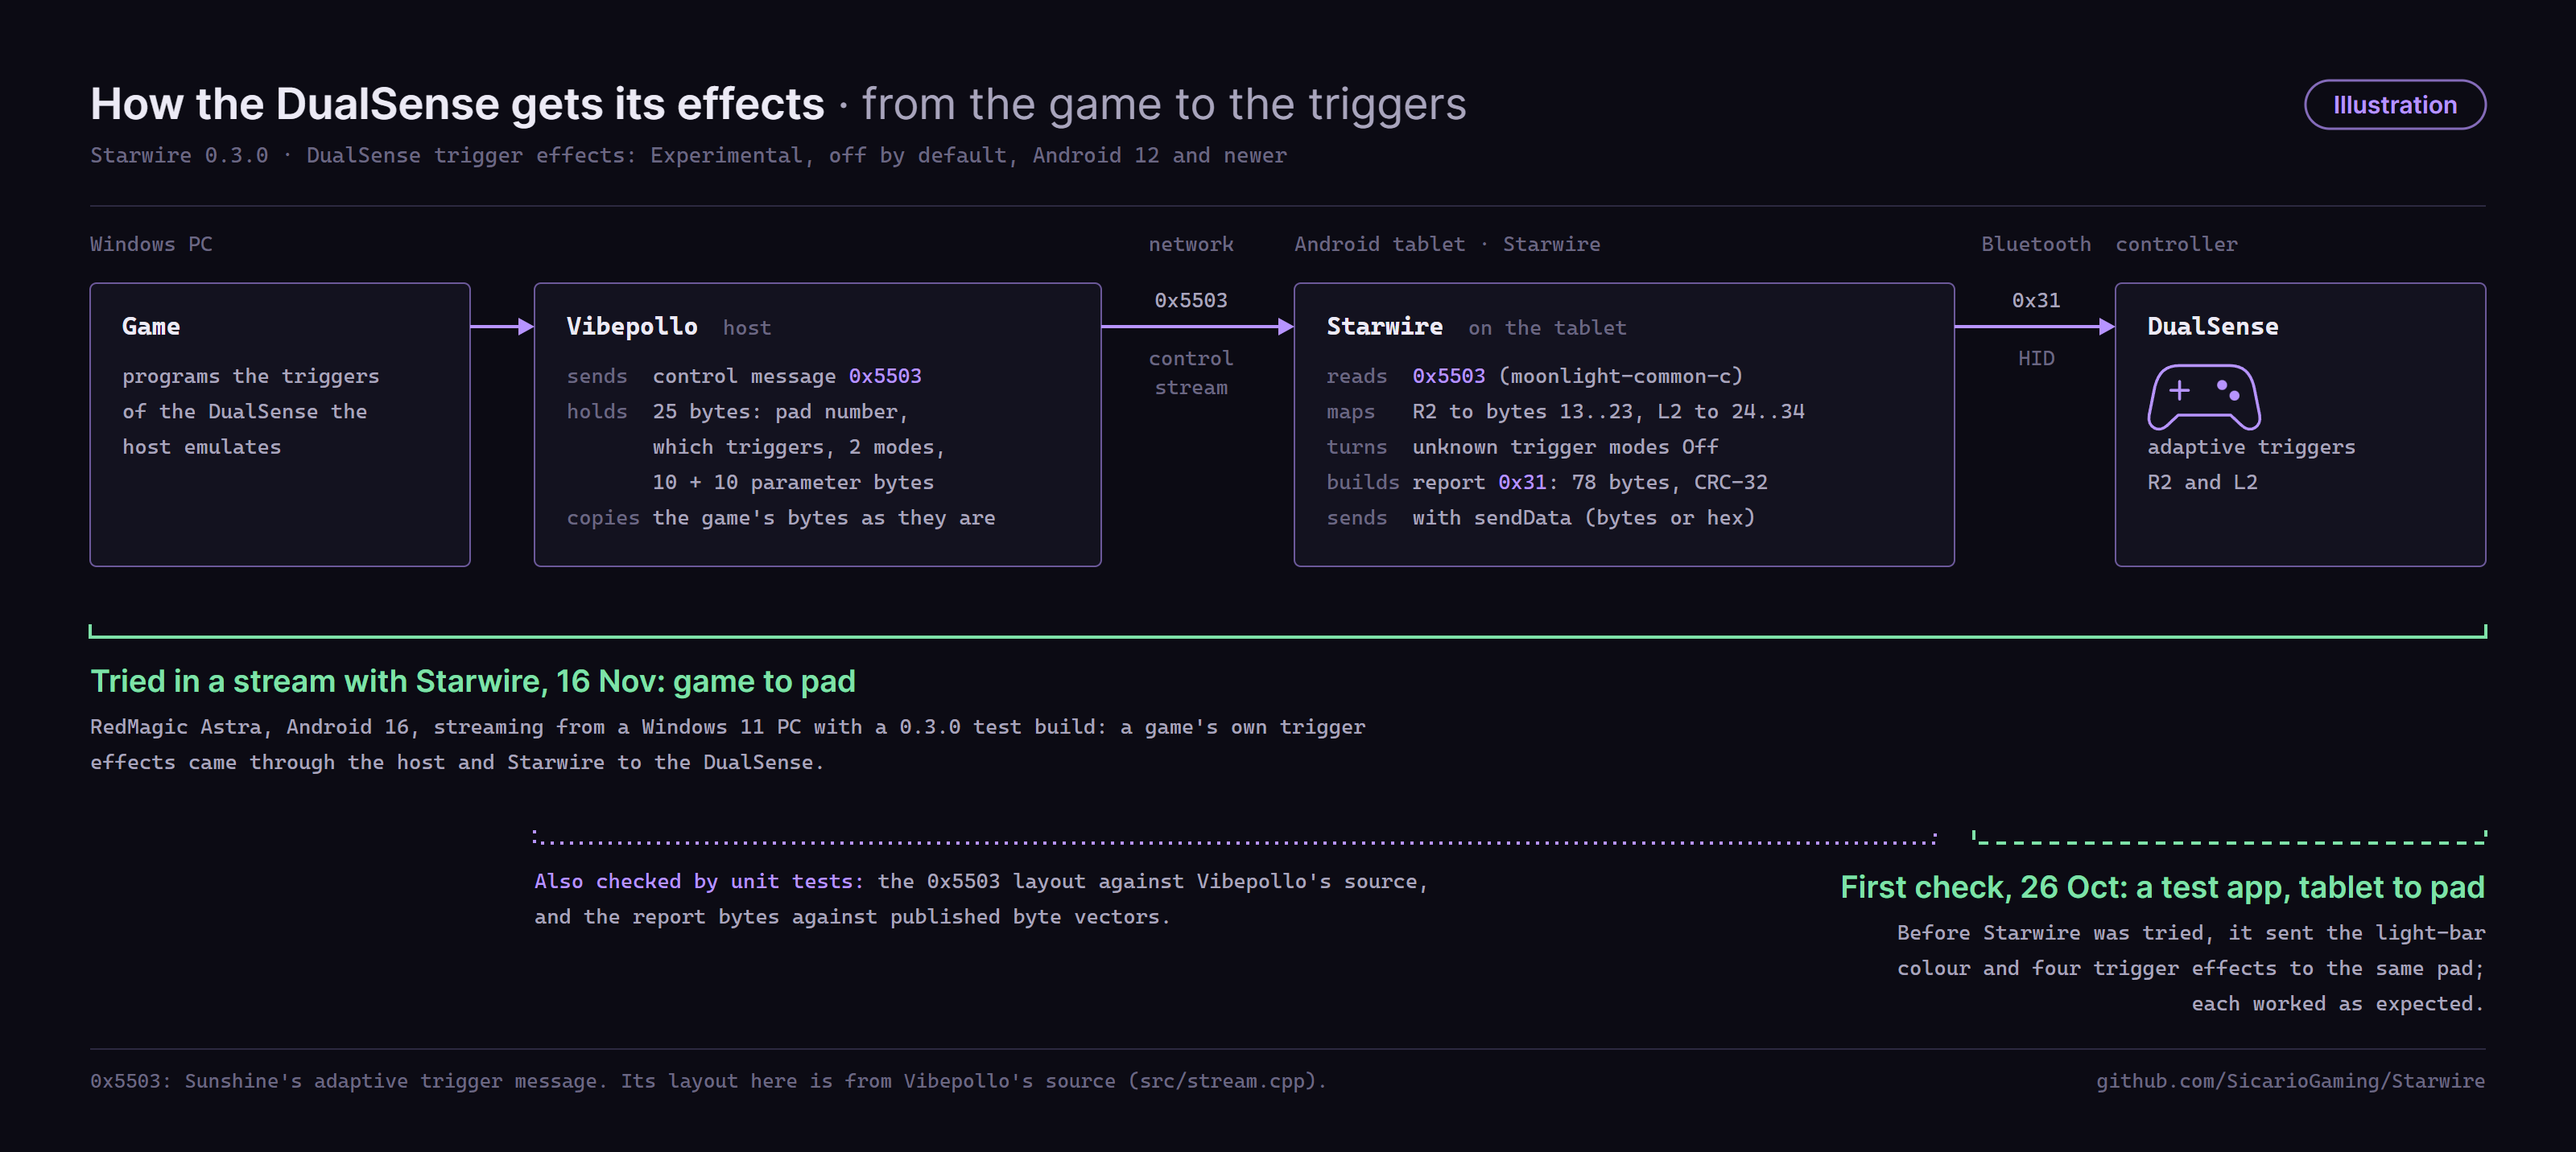
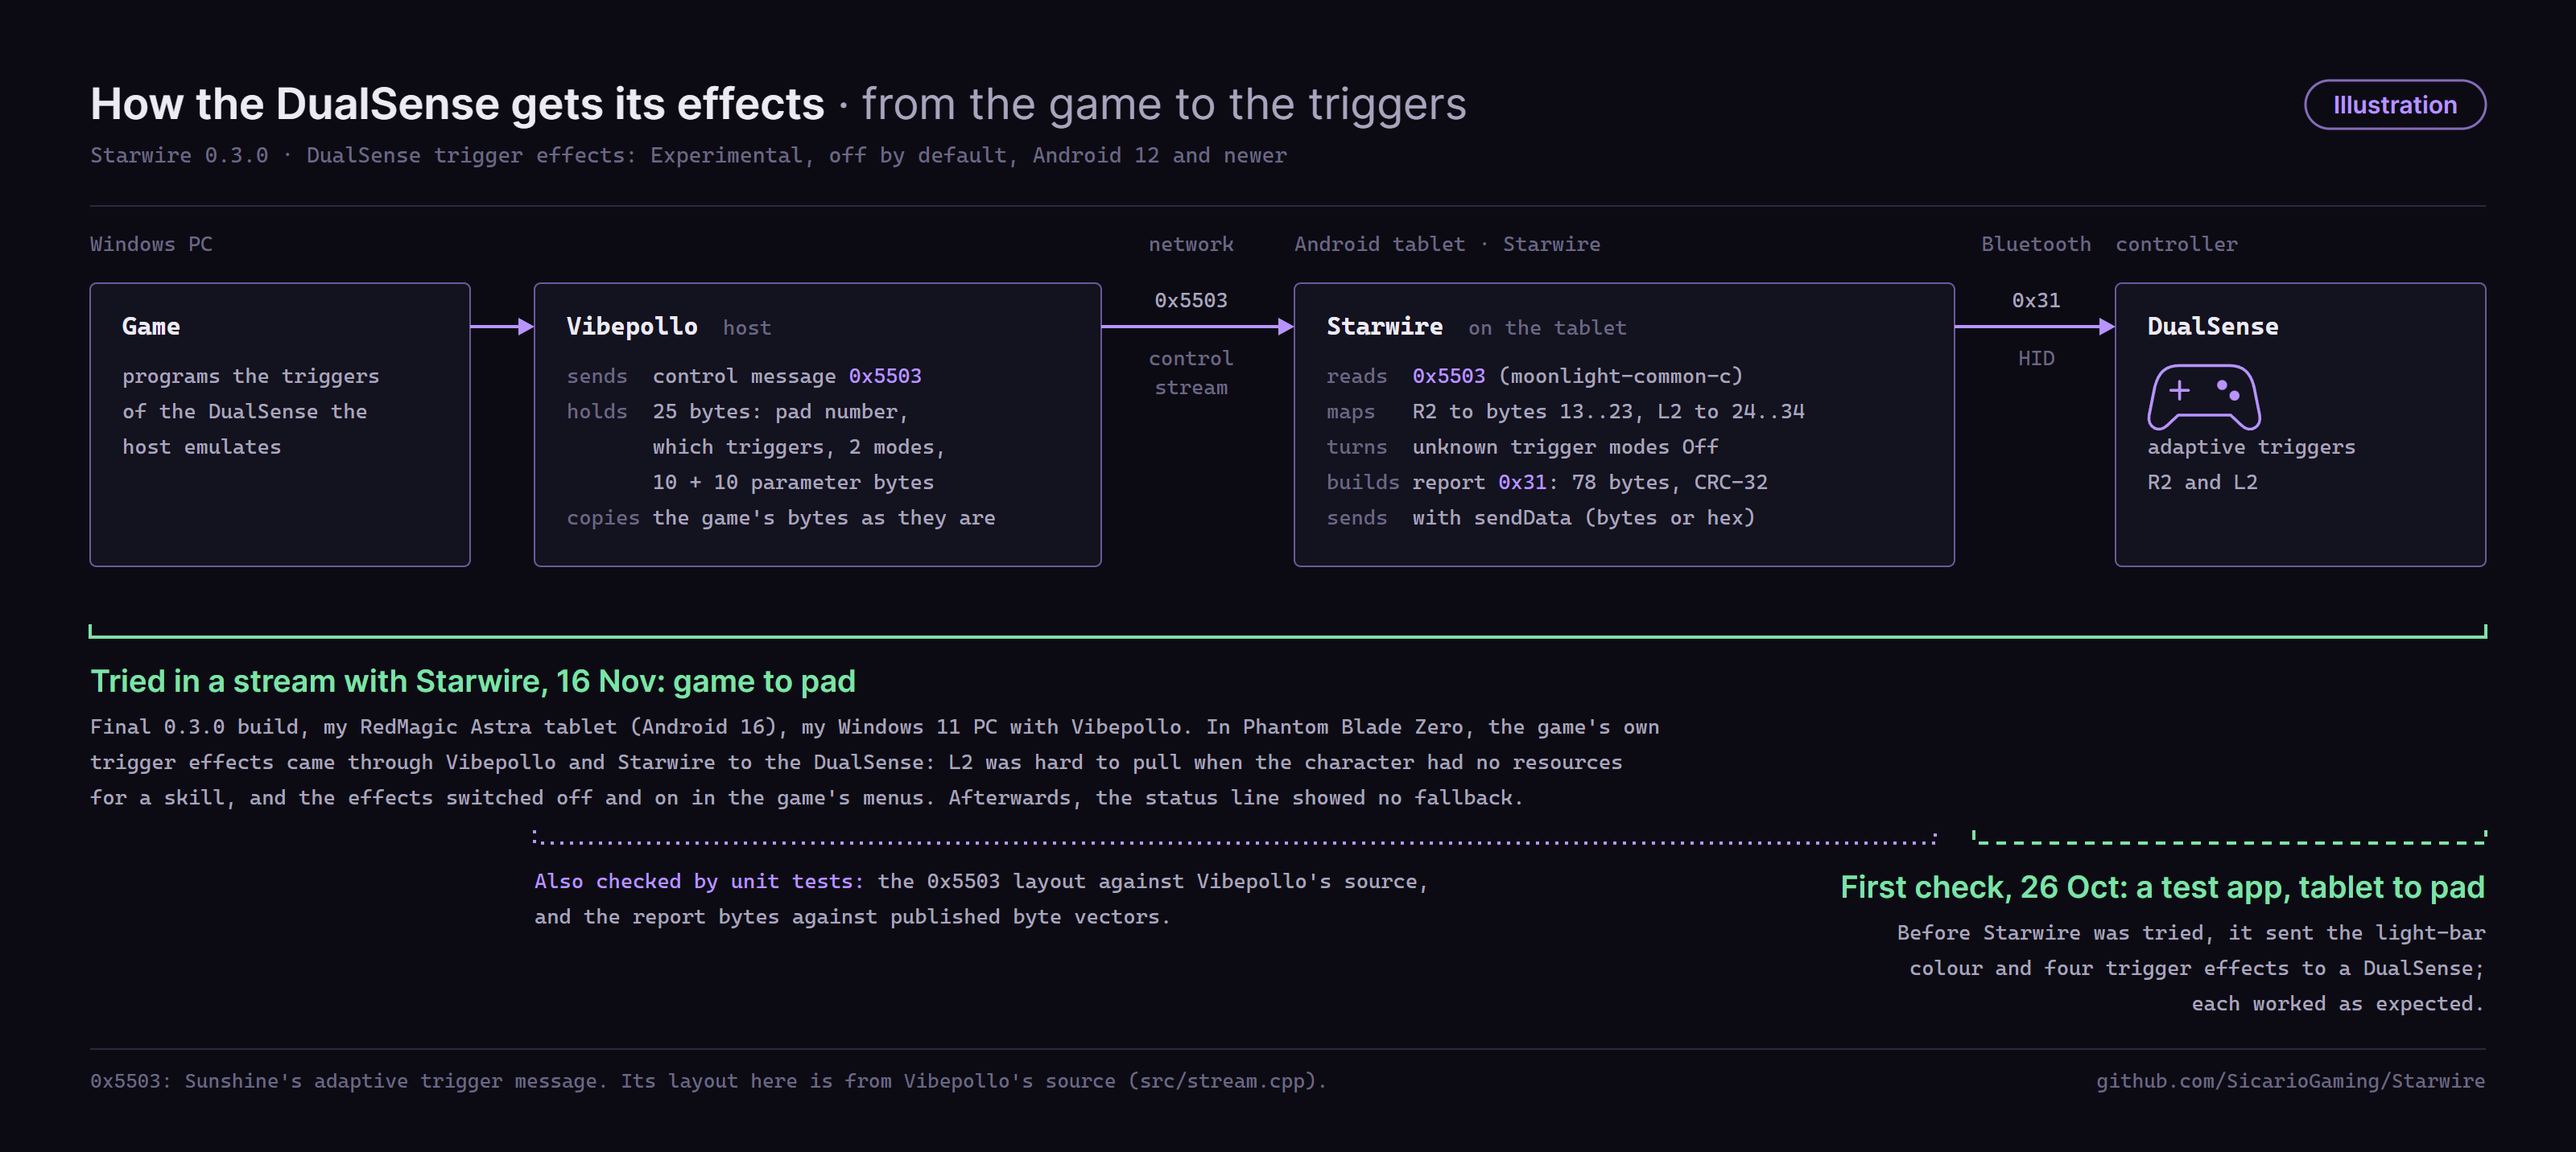
docs(readme): replace the two pictures that still named a test build
The DualSense signal path picture said the stream test used a 0.3.0
test build, and the USB devices animation began "Tried once". Both
come from the corrected renders now: the signal path names the final
0.3.0 build and Phantom Blade Zero, and the animation says Stop gave
the device back all 3 times. Their alt text says the same.

The 26 October test app check now says it reached a DualSense from
the same tablet, since no record shows it was the same pad as on
16 November.

Changed region(s): [[0.0312, 0.6145, 0.625, 0.7067], [0.75, 0.8296, 0.9688, 0.8603]]

diff --git a/README.md b/README.md
@@ -49,7 +49,7 @@ newer, and you can find it in **Settings → Controllers → DualSense**.
 <tr>
 <td width="50%" valign="top">
 
-<img src="docs/images/0.3.0/usb-devices.gif" alt="Illustration: a wired pad is plugged into a tablet, and an encrypted link over the home network or a VPN, using the microphone pairing, carries it to the PC's USB helper and usbip-win2 driver, where it shows up as if plugged in there. Experimental, off by default. Tried with a RedMagic Astra tablet and a Windows 11 PC: it worked on the PC, and Stop gave it back.">
+<img src="docs/images/0.3.0/usb-devices.gif" alt="Illustration: a wired pad is plugged into a tablet, and an encrypted link over the home network or a VPN, using the microphone pairing, carries it to the PC's USB helper and usbip-win2 driver, where it shows up as if plugged in there. Experimental, off by default. Tried on a RedMagic Astra tablet and a Windows 11 PC: it worked on the PC, and Stop gave it back all 3 times.">
 <sub>This is an illustration, not a screen capture. I tried it with a DualSense, my RedMagic Astra tablet and my Windows 11 PC: Windows showed the controller working, I used it on the PC, and each of the three times I stopped the share, it went back to the tablet.</sub>
 
 </td>
@@ -139,7 +139,7 @@ devices.
   emulators do not get the setting, even ones that can run ARM apps.
 
 <p align="center">
-<img src="docs/images/0.3.0/dualsense-signal-path.png" width="820" alt="Illustration: how the DualSense gets its effects. A game on the Windows PC programs the triggers of the DualSense the host emulates. Vibepollo sends them to the tablet as control message 0x5503. Starwire reads it, turns unknown trigger modes off, builds Bluetooth report 0x31 and sends it with sendData, and the DualSense plays the effects on R2 and L2. Tried in a stream with Starwire, game to pad. Before that, on 26 Oct, a test app sent the light bar colour and four trigger effects from the tablet to the same pad. The message layout and the report bytes are also checked by unit tests.">
+<img src="docs/images/0.3.0/dualsense-signal-path.png" width="820" alt="Illustration: how the DualSense gets its effects. A game on the Windows PC programs the triggers of the DualSense the host emulates. Vibepollo sends them to the tablet as control message 0x5503. Starwire reads it, turns unknown trigger modes off, builds Bluetooth report 0x31 and sends it with sendData, and the DualSense plays the effects on R2 and L2. Tried in a stream with Starwire on 16 Nov, with the final 0.3.0 build: in Phantom Blade Zero, the game's own trigger effects came through Vibepollo and Starwire to the DualSense, and the status line showed no fallback afterwards. Before that, on 26 Oct, a test app sent the light bar colour and four trigger effects from the tablet to a DualSense. The message layout and the report bytes are also checked by unit tests.">
 <br>
 <sub>This is an illustration of how a game's trigger effects reach the controller, and of which steps were tried.</sub>
 </p>
@@ -206,8 +206,8 @@ devices.
   skill, and the trigger effects switched off and on as expected in the game's menus. Afterwards,
   the status line showed no fallback for that stream. On one of the three times I stopped sharing
   the DualSense, it reset itself first, as described under Known issues.
-- Before that, on 26 October, a separate test app, not Starwire, sent four trigger effects to the
-  same DualSense from the same tablet, and the light bar changed.
+- Before that, on 26 October, a separate test app, not Starwire, sent four trigger effects to a
+  DualSense from the same tablet, and the light bar changed.
 - **Not tried on a controller yet:** Starwire's own trigger presets, apart from the gun click
   that the Test button sends, and the strength steps.
 - **Not run on this build:** the on-device test suite.
@@ -729,7 +729,7 @@ The menu itself, its quick actions and custom commands come from Moonlight X
 | Send your microphone to the PC with any host: a VBAN stream to Starwire's receiver on the PC, which plays it into VB-Cable. Encrypted from 0.2.1, and only from devices you've paired with the PC; a "Not encrypted" option stays for Voicemeeter and other VBAN apps ([see above](#new-in-020-your-microphone-on-the-pc-with-any-host)). The receiver has no window, just an icon by the clock with pairing, a mic check and a test tone | New in Starwire, with its Windows receiver and setup script; VBAN is VB-Audio's network audio format |
 | Or send it over the stream itself, with a choice of microphone **(needs [logabell's Apollo build](https://github.com/logabell/apollo-microphone/releases) on the PC)** | Ported from logabell's Artemis and moonlight-common-c microphone changes ([Artemis PR #537](https://github.com/ClassicOldSong/moonlight-android/pull/537)); echo-cancelled capture is new in Starwire |
 | Per-game settings for the new options (codec, V-Sync, LFR, async decode, display, touch mode, cursor, audio haptics, and from 0.2.1 the jitter buffer) | Extends Moonlight X's per-app settings (MoreOrLessSoftware); the per-game jitter buffer is from Moonlight X too |
-| From 0.3.0: DualSense trigger effects over Bluetooth (Experimental, Android 12 and newer): the game's own adaptive trigger effects, four presets for games that send none, a strength setting, a status line and a Test button. On my RedMagic Astra tablet (Android 16), Starwire found a DualSense over Bluetooth and the Test button's gun click was felt in both triggers, and in a stream of Phantom Blade Zero the game's own effects came through Starwire to the controller. Apart from that gun click, the presets and strength steps have not been tried on a pad yet. Before that, a separate test app changed the same pad's light bar and sent it four trigger effects | Bluetooth route and pad matching ported from Moonlight V+ (qiin2333); the code that passes the host's effects to Java is from Nightjar (Ramazan Kara); report layout written from Linux's hid-playstation driver, SDL and Nielk1's trigger notes; uses HiddenApiBypass (LSPosed). The rest is new in Starwire |
+| From 0.3.0: DualSense trigger effects over Bluetooth (Experimental, Android 12 and newer): the game's own adaptive trigger effects, four presets for games that send none, a strength setting, a status line and a Test button. On my RedMagic Astra tablet (Android 16), Starwire found a DualSense over Bluetooth and the Test button's gun click was felt in both triggers, and in a stream of Phantom Blade Zero the game's own effects came through Starwire to the controller. Apart from that gun click, the presets and strength steps have not been tried on a pad yet. Before that, a separate test app changed a DualSense's light bar and sent it four trigger effects | Bluetooth route and pad matching ported from Moonlight V+ (qiin2333); the code that passes the host's effects to Java is from Nightjar (Ramazan Kara); report layout written from Linux's hid-playstation driver, SDL and Nielk1's trigger notes; uses HiddenApiBypass (LSPosed). The rest is new in Starwire |
 | USB devices (Experimental), the phone's side: a setting under Controllers adds a "USB devices" page to the stream menu, which shares a wired device with the PC through the USB/IP exporter inside the app and an encrypted tunnel to the PC's USB helper, after the device rules decide what may be shared (one device at a time, Android 9 or later on 64-bit ARM). Tested on a computer against a fake helper on 127.0.0.1, and tried on my RedMagic Astra tablet (Android 16) with a Windows 11 PC and the real helper: a DualSense plugged into the tablet by cable worked on the PC, and stopping the share gave it back all three times. On one of those stops, the pad reset on the tablet, so Starwire ended the share as if it had been unplugged; it still came back and worked | The exporter is ported from Moonlight V+'s usbip-backend (qiin2333), after yunsmall's Android-Usbipdcpp, and built on usbipdcpp (yunsmall, LGPL-3.0) and libusb; the stream menu's page, the tunnel, the device rules and one-device sharing are new in Starwire |
 | USB devices, the PC's side: Starwire's USB helper for Windows (`setup-usb.cmd`, in the Windows zip) takes the device over the encrypted tunnel from a phone paired with the PC's microphone receiver, checks it against the same device rules and attaches it with usbip-win2's driver, version 0.9.8.1. Off until you turn it on in its menu, and each phone needs its own tick. Its own tests pass on Windows 11 with a fake driver and a test phone, and setup-usb.cmd installed and started it on a Windows 11 PC, where it attached a DualSense shared from a tablet ([USB-HELPER.md](windows/USB-HELPER.md)) | New in Starwire; uses usbip-win2's driver, installed separately |
 

diff --git a/.github/release-notes/v0.3.0-notes.md b/.github/release-notes/v0.3.0-notes.md
@@ -63,7 +63,7 @@ The helper's files are in the Windows zip below, next to the microphone's files,
 - **USB devices:** setup-usb.cmd installed and started the PC's USB helper. After I turned on sharing and ticked the tablet in the helper's menu, I shared the DualSense, plugged into the tablet by cable, from the stream menu. The helper logged the share and attached the controller, Windows showed a working "DualSense Wireless Controller" with a HID-compliant game controller, and I used it on the PC. I stopped the share three times, and each time the controller went back to the tablet and worked there again. On one of those stops, the controller reset itself first, as described under Known issues.
 - **Back and Brightness:** during a stream, Back opened the stream menu, and the Brightness item in the stream menu worked.
 - **Updating:** after I installed this build over 0.2.1, the tablet still streamed from my PC without pairing again, and the USB helper accepted the tablet's microphone pairing.
-- Before all of this, on 26 October, a separate test app, not Starwire, sent its reports through the same hidden Android function to the same controller and tablet. The light bar changed, and four trigger effects felt as expected: firm resistance, a weapon click, a vibration and off.
+- Before all of this, on 26 October, a separate test app, not Starwire, sent its reports from the same tablet to a DualSense, through the same hidden Android function. The light bar changed, and four trigger effects felt as expected: firm resistance, a weapon click, a vibration and off.
 - **Not tried on a controller yet:** Starwire's four trigger presets, apart from the gun click that the Test button sends, and the strength steps.
 - **Not run on this build:** the on-device test suite.
 - Everything else new in this release, such as vibration strength, the left edge swipe, the virtual desktop shortcuts and Quit Session's question, is checked by tests on a computer and has not been tried in a stream yet. The fixes for #14 and #5 are also checked by tests on a computer and have not been tried on a device yet.
